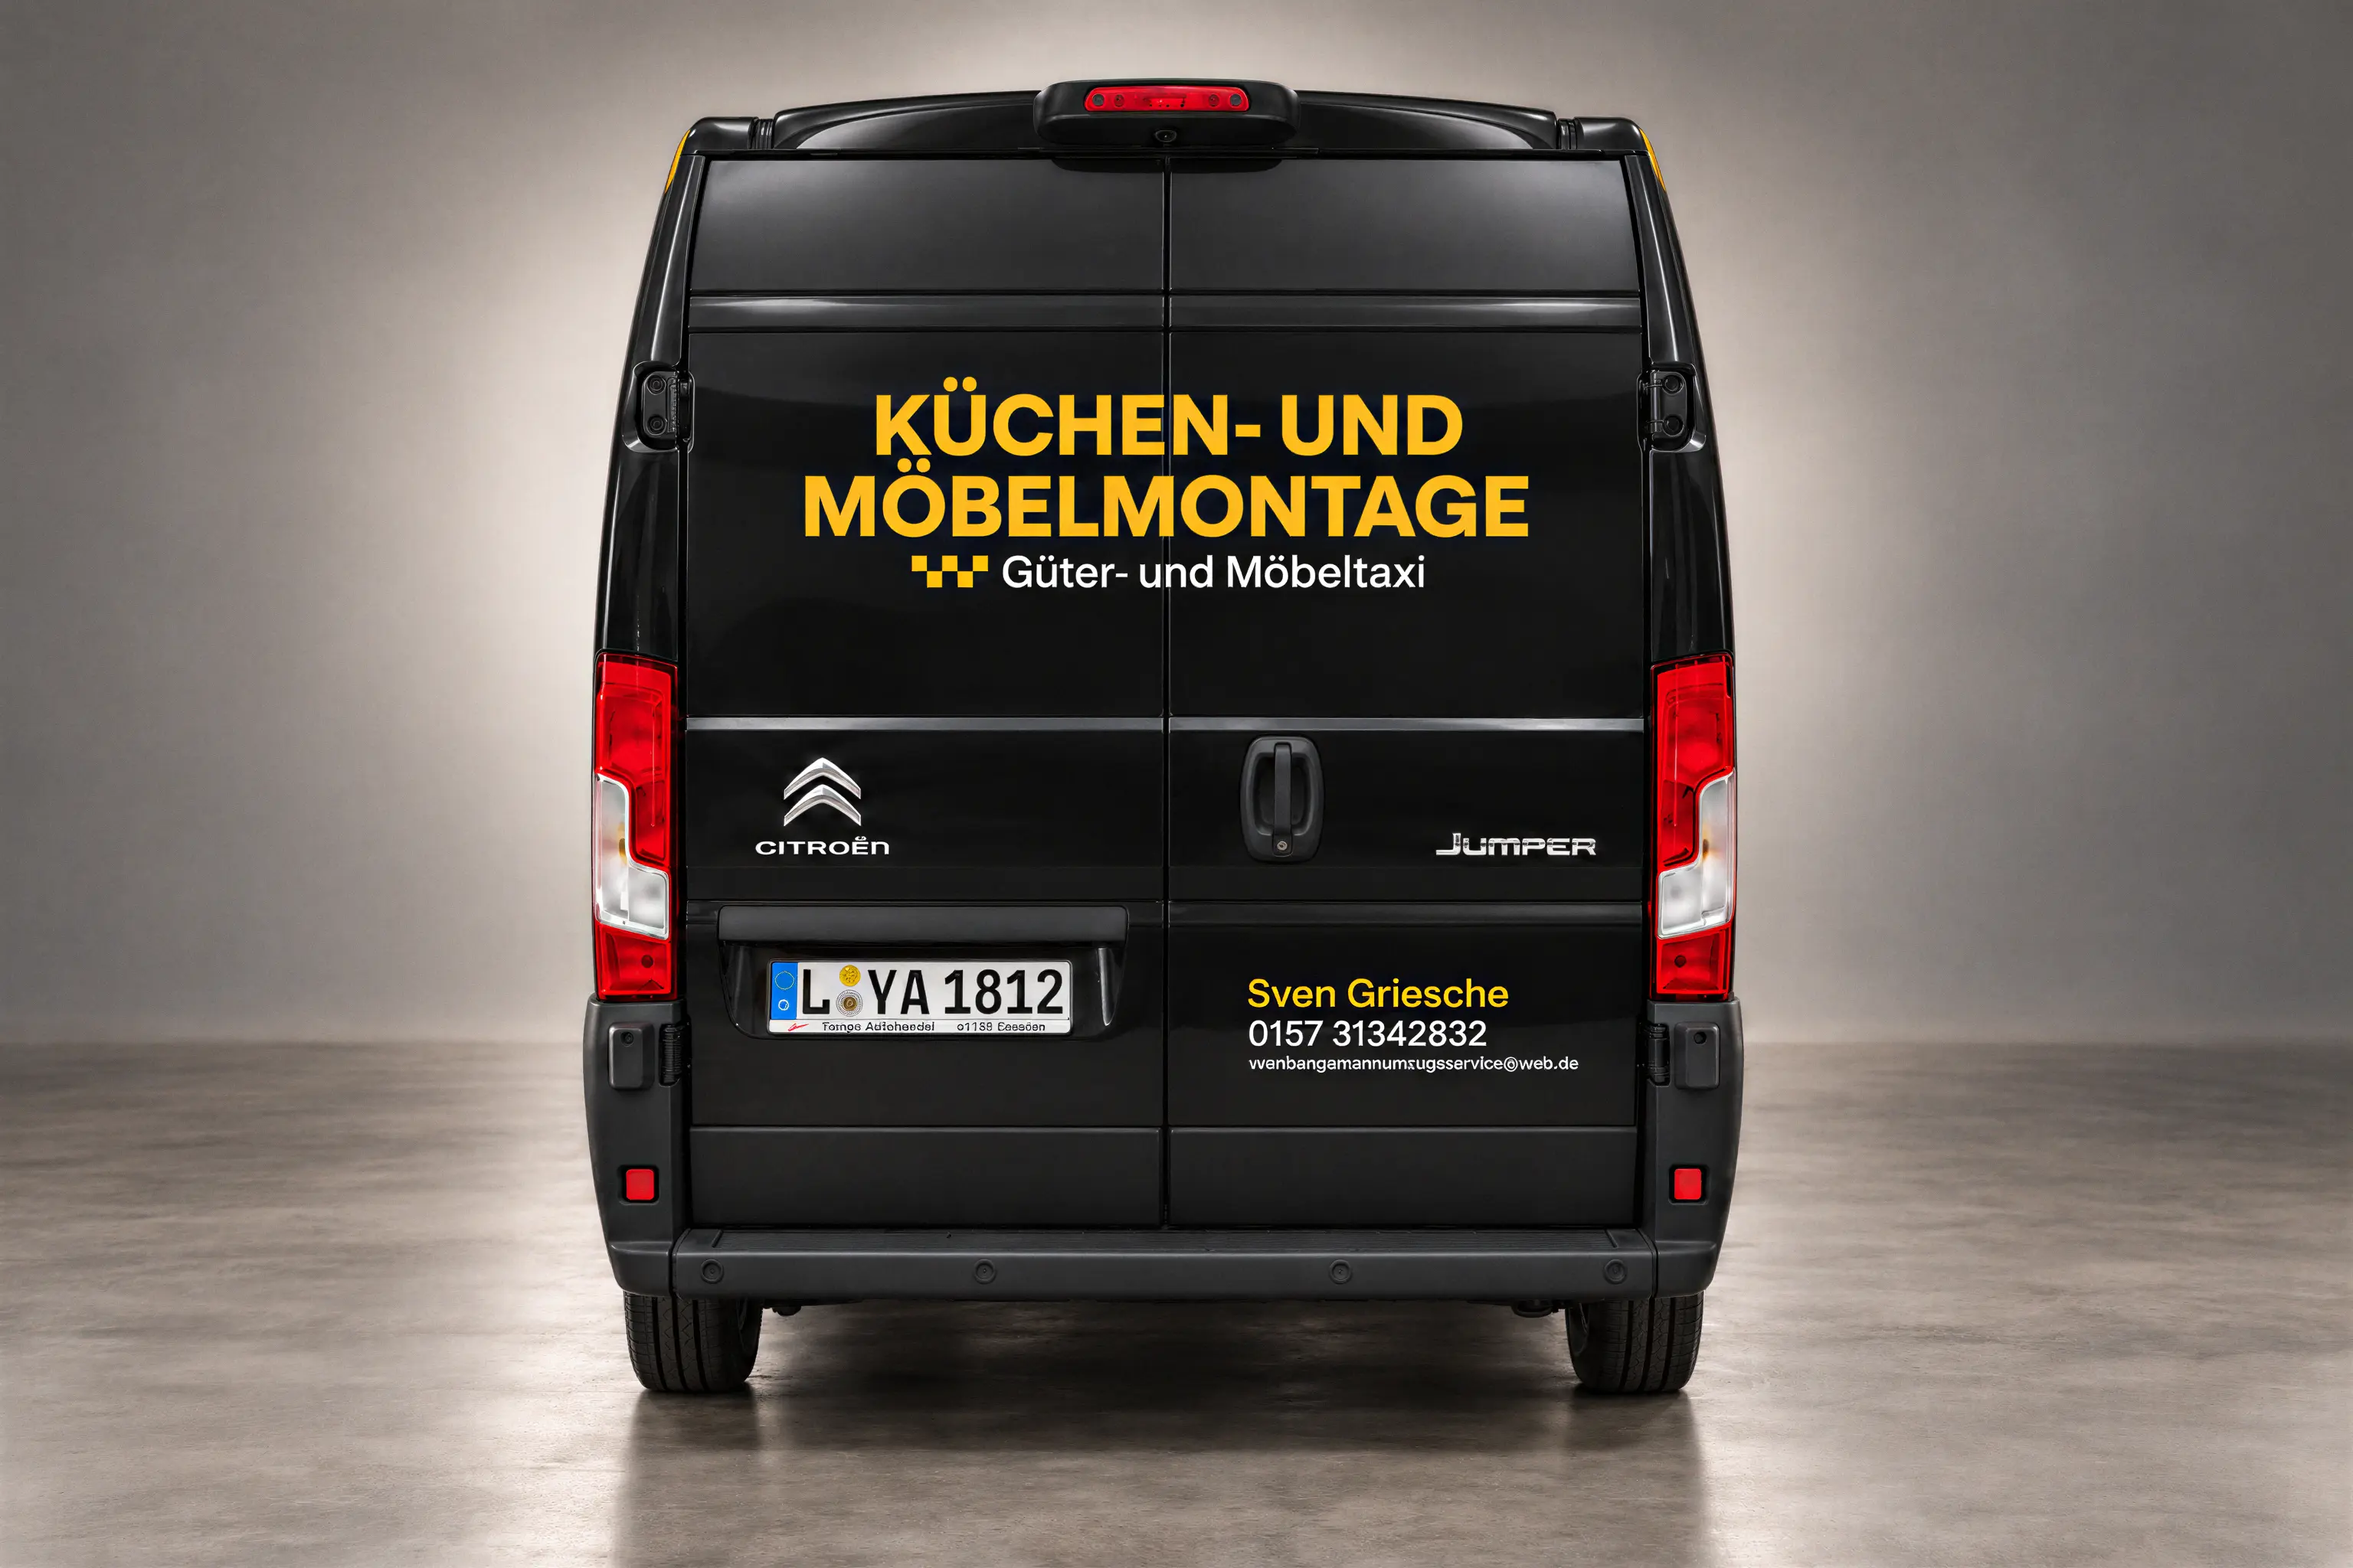
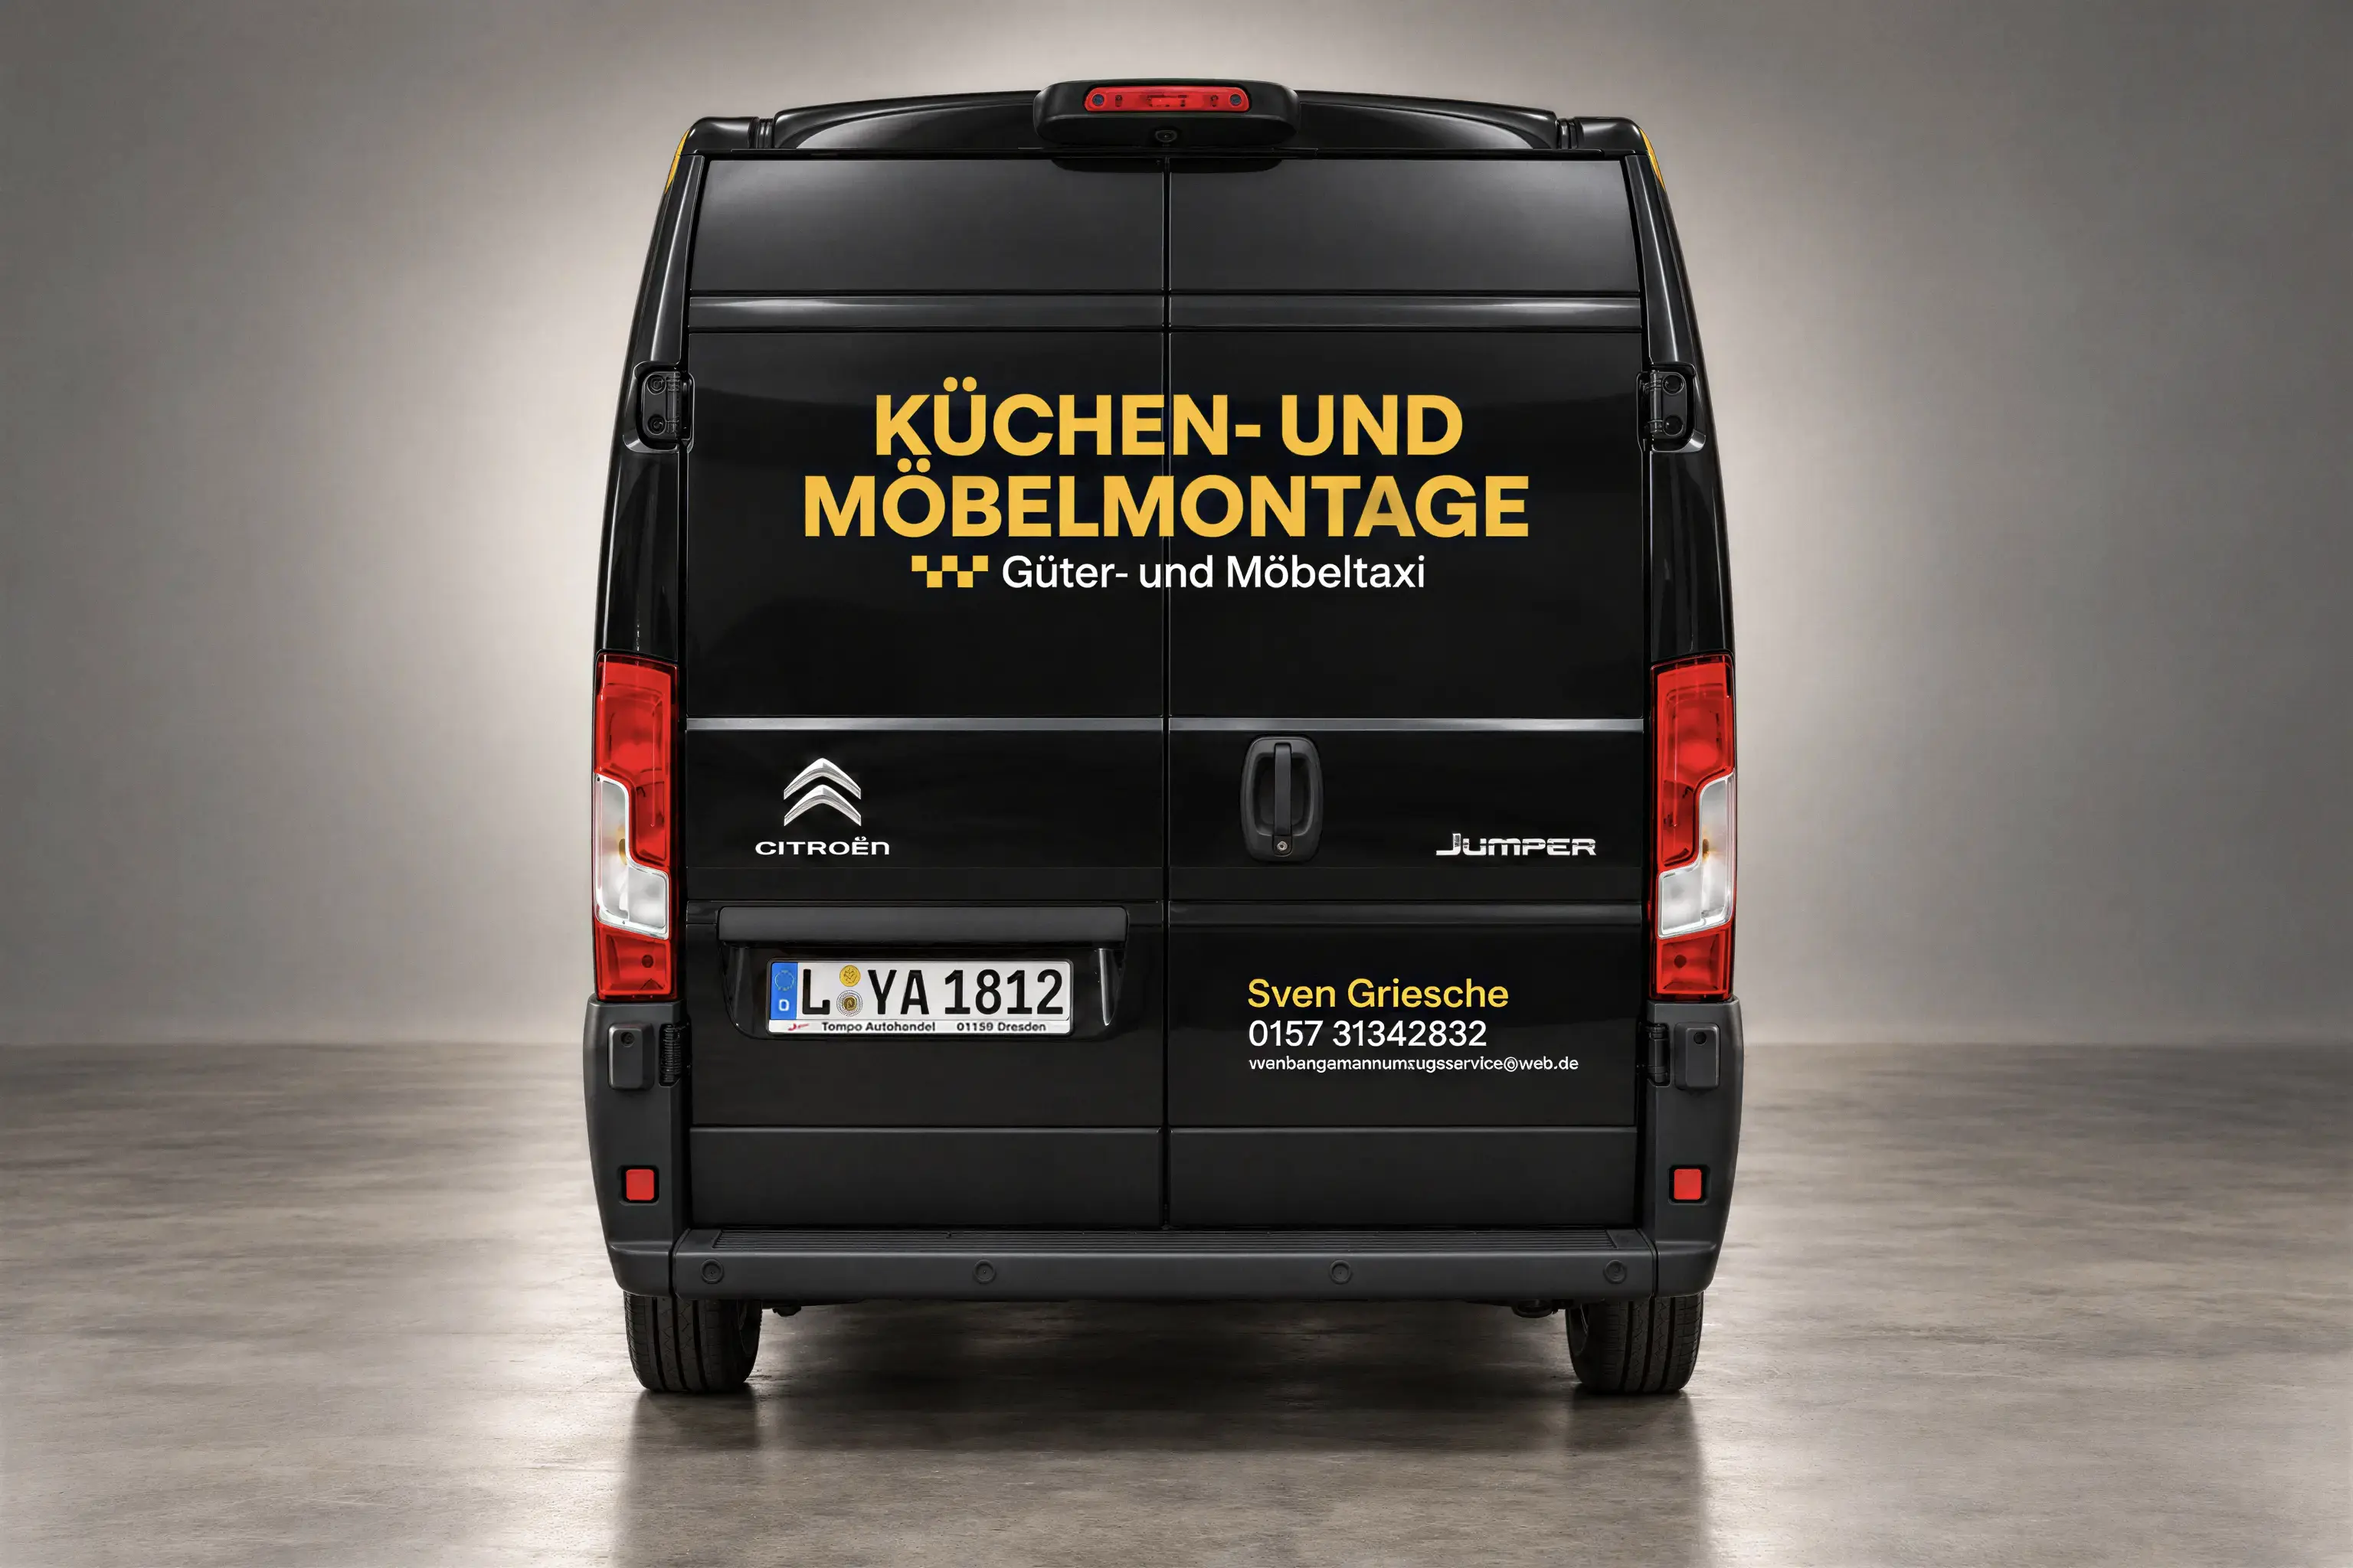
Update rear-view before and after photos

diff --git a/data.js b/data.js
@@ -566,7 +566,7 @@ const SITE = {
     },
     "folder": "./Car wrapping",
     "image": "./Car wrapping/1.webp",
-    "imageVersions": {"3": "5c30adca399a", "5": "13818cfb6760", "6b.webp": "2f43a94ba333", "7b.webp": "e11c00adf6c9"},
+    "imageVersions": {"3": "5c30adca399a", "5": "13818cfb6760", "6b.webp": "2f43a94ba333", "7b.webp": "a9aecd1024c9", "7a.webp": "068586ff83b9"},
     "link": "./case-study.html?project=car-wrapping",
     "blocks": [{"type": "image-row", "nums": [2, 3]}, {"type": "image-row", "nums": [5, 4]}, {"type": "comparison", "before": "6a.webp", "after": "6b.webp", "label": {"en": "Side view", "de": "Seitenansicht", "uk": "Вигляд збоку"}}, {"type": "comparison", "before": "7a.webp", "after": "7b.webp", "label": {"en": "Rear view", "de": "Heckansicht", "uk": "Вигляд ззаду"}}, {"type": "image-pair", "nums": [8, 9], "heading": {"en": "visibility in the city", "de": "sichtbarkeit im stadtbild", "uk": "помітність у місті"}, "text": {"en": "Yellow typography and a large kitchen image contrast with the black bodywork, helping the vehicle stand out in a busy cityscape and making its services immediately recognisable.", "de": "Gelbe Typografie und ein großflächiges Küchenmotiv setzen sich deutlich von der schwarzen Karosserie ab. So fällt das Fahrzeug im belebten Stadtbild auf und vermittelt sein Angebot auf einen Blick.", "uk": "Жовта типографіка та велике зображення кухні контрастують із чорним кузовом, виділяючи авто в міському середовищі й роблячи його послуги зрозумілими з першого погляду."}}],
     "caseStudy": {

diff --git a/case-study.html b/case-study.html
@@ -170,7 +170,7 @@
   <!-- floating contact button -->
   <a class="contact-fab" href="mailto:savchenko.body@gmail.com" data-i18n="footer.fab">contact me</a>
 
-  <script src="./data.js?v=20261017-compare-ad8002f0b8"></script>
+  <script src="./data.js?v=20261017-rear-69e3f0be48"></script>
   <script src="/data-uk.js?v=20261017-citroen-jumper"></script>
   <script src="./app.js?v=20261017-compare-ad8002f0b8"></script>
 </body>

diff --git a/index.html b/index.html
@@ -189,7 +189,7 @@
   <!-- floating contact button -->
   <a class="contact-fab" href="mailto:savchenko.body@gmail.com" data-i18n="footer.fab">contact me</a>
 
-  <script src="./data.js?v=20261017-compare-ad8002f0b8"></script>
+  <script src="./data.js?v=20261017-rear-69e3f0be48"></script>
   <script src="/data-uk.js?v=20261017-citroen-jumper"></script>
   <script src="./app.js?v=20261017-compare-ad8002f0b8"></script>
 </body>

diff --git a/about/index.html b/about/index.html
@@ -137,7 +137,7 @@
   <!-- floating contact button -->
   <a class="contact-fab" href="mailto:savchenko.body@gmail.com" data-i18n="footer.fab">contact me</a>
 
-  <script src="/data.js?v=20261017-compare-ad8002f0b8"></script>
+  <script src="/data.js?v=20261017-rear-69e3f0be48"></script>
   <script src="/data-uk.js?v=20261017-citroen-jumper"></script>
   <script src="/app.js?v=20261017-compare-ad8002f0b8"></script>
 </body>
